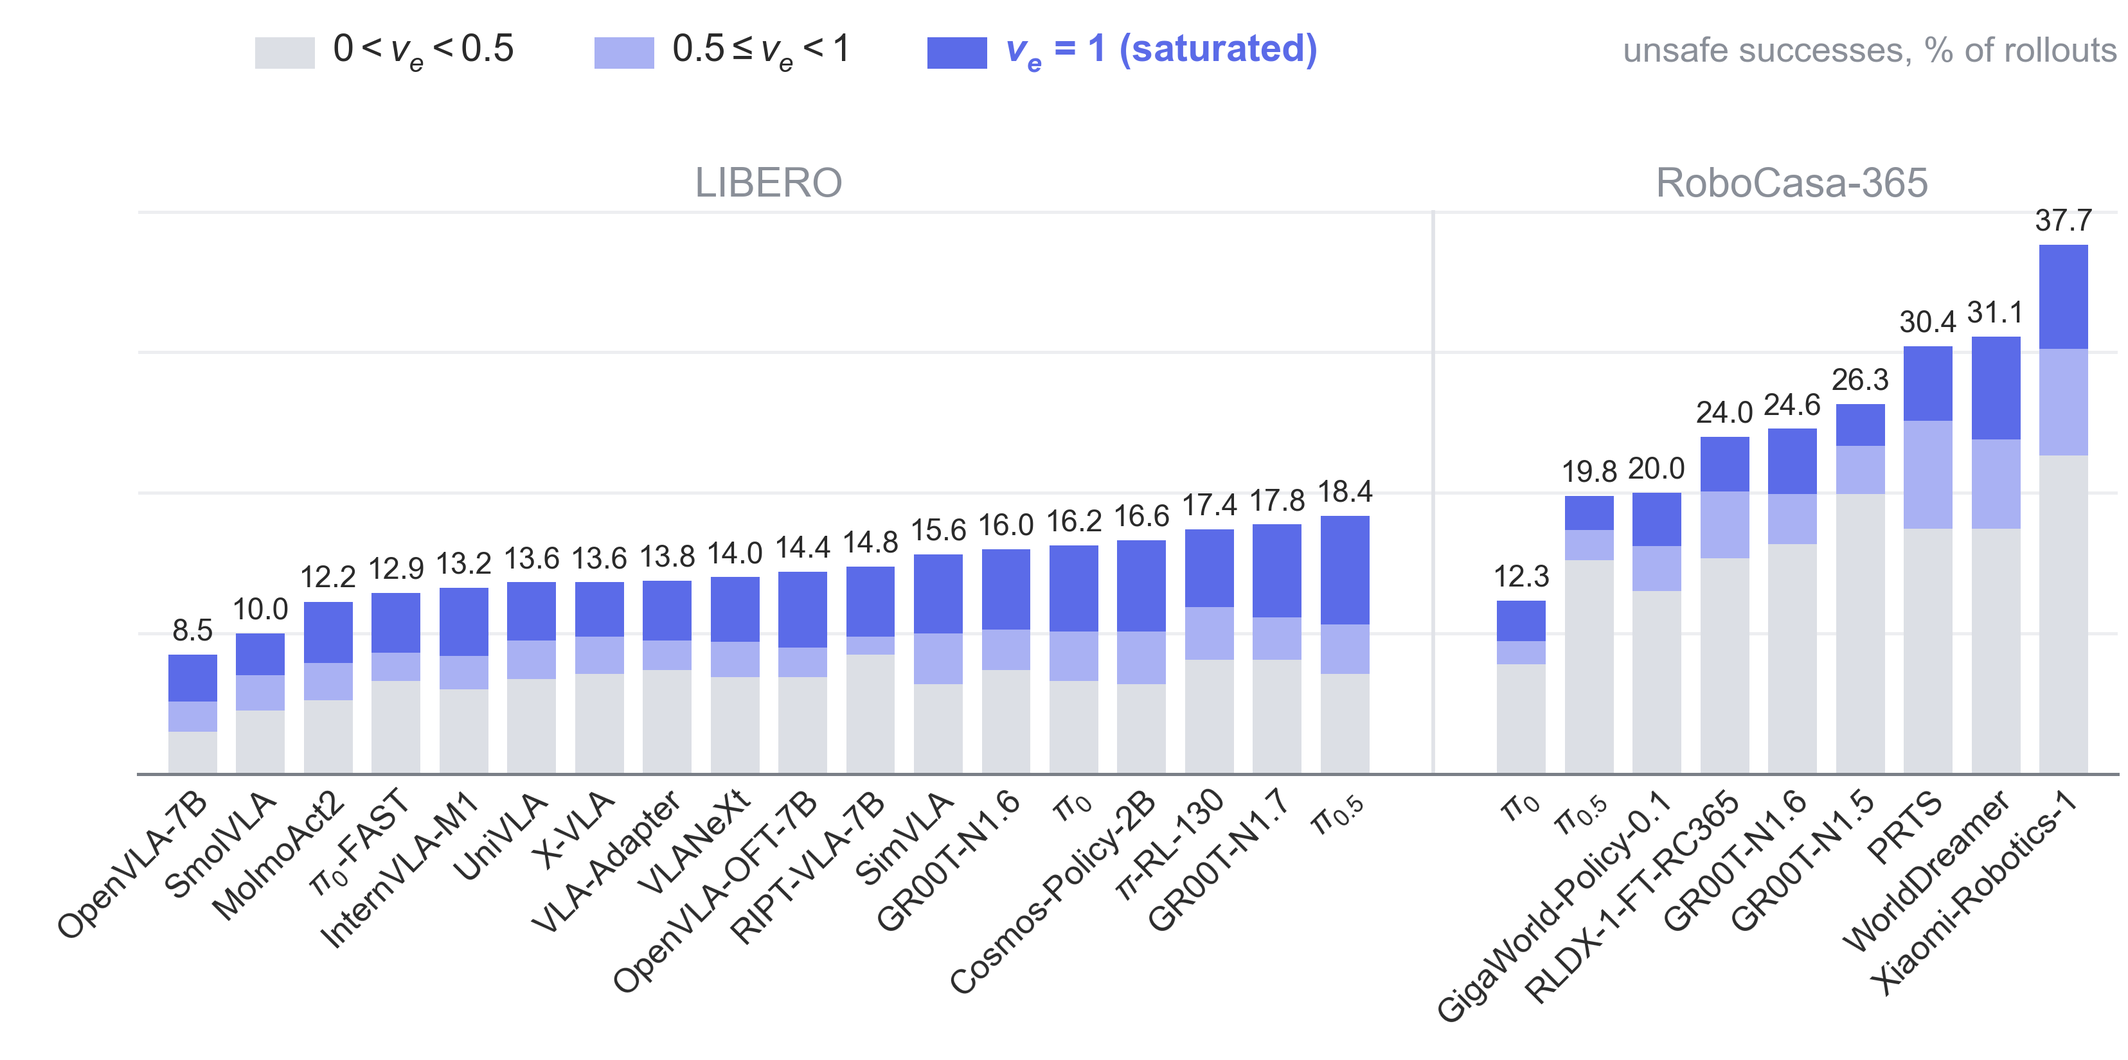
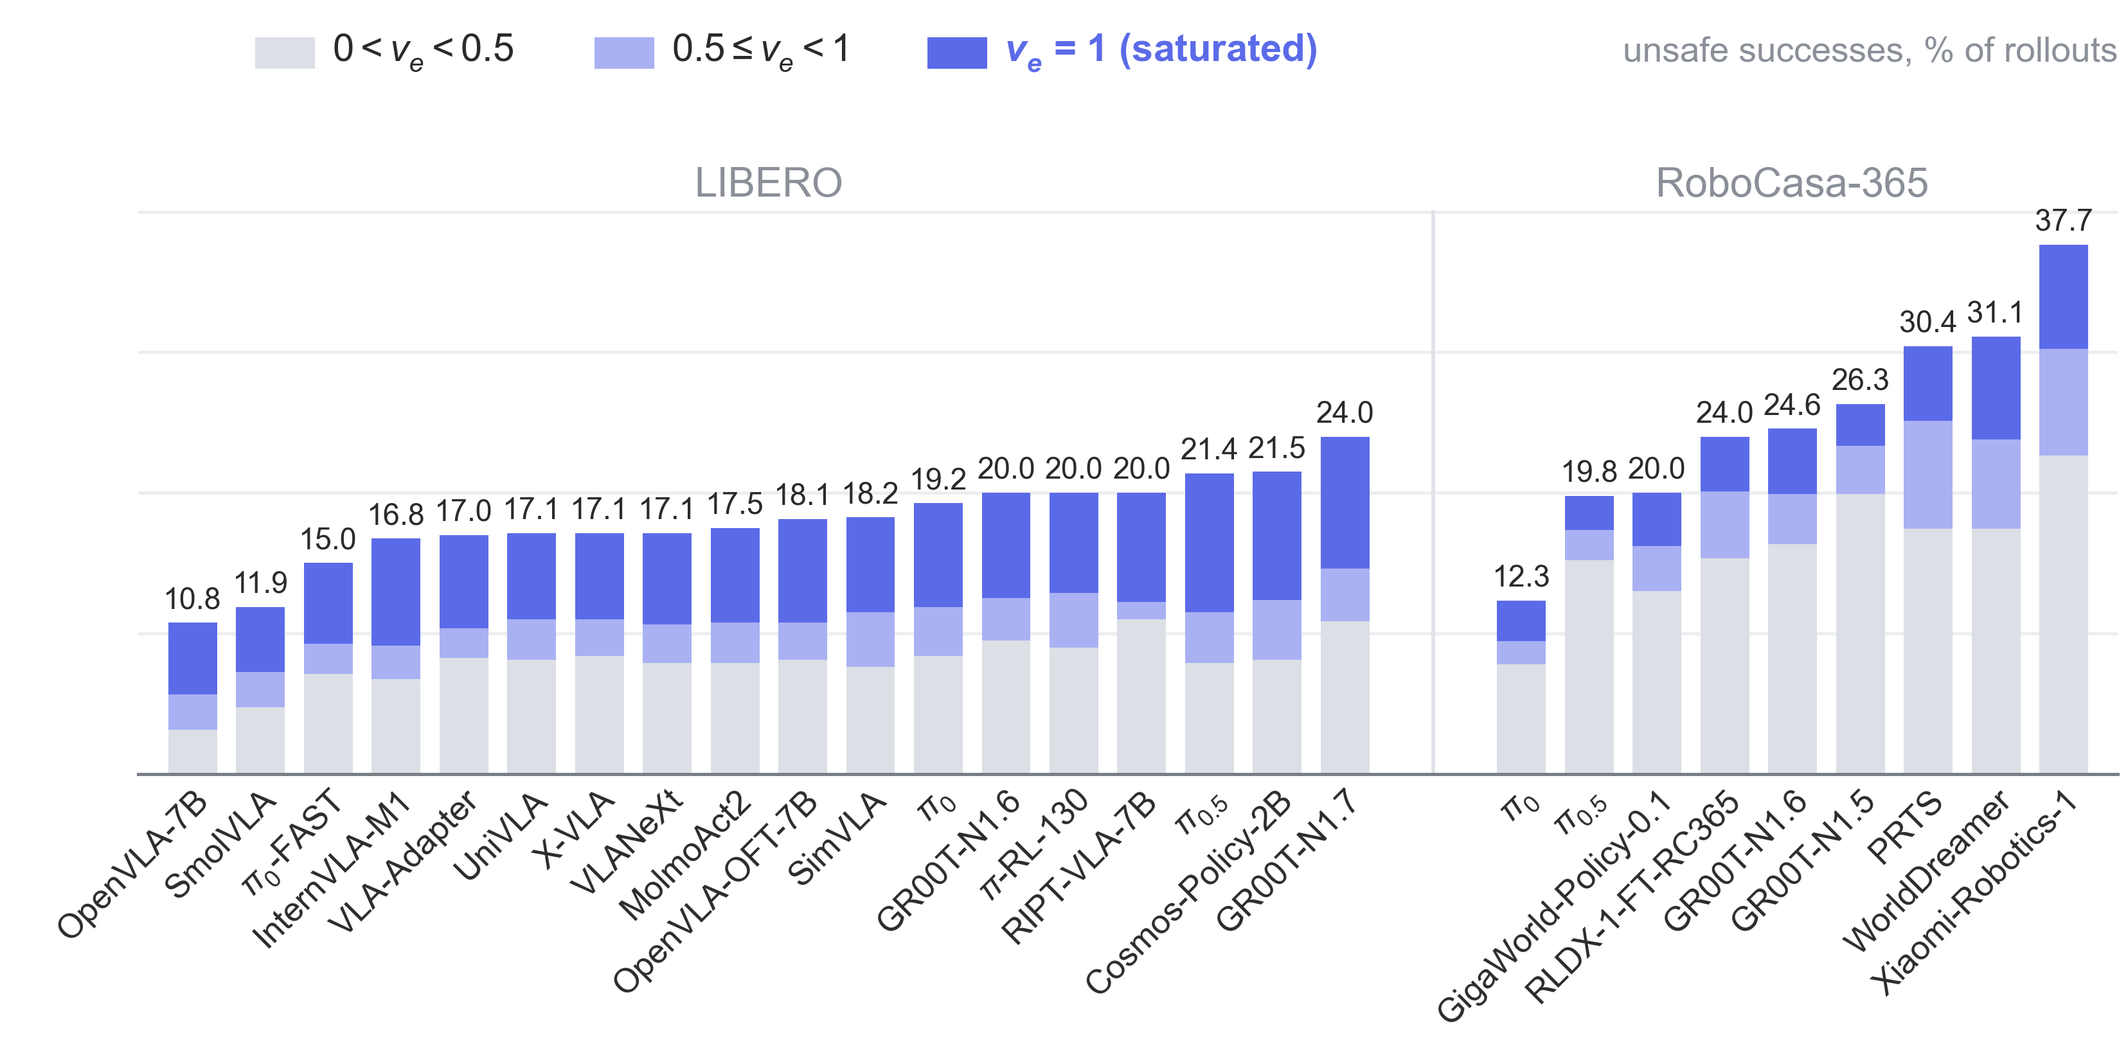
Update LIBERO numbers after rescoring LIBERO-Goal/10

diff --git a/index.html b/index.html
@@ -83,7 +83,7 @@
         </p>
 
         <!-- HOME-STATS:START -->
-<dl class="board-stats"><div><dt>24</dt><dd>policies evaluated</dd></div><div><dt>5</dt><dd>evaluation suites</dd></div><div><dt>22,500</dt><dd>episodes scored</dd></div><div><dt>8</dt><dd>safety specifications</dd></div><div><dt>2026-09-24</dt><dd>last updated</dd></div></dl>
+<dl class="board-stats"><div><dt>24</dt><dd>policies evaluated</dd></div><div><dt>5</dt><dd>evaluation suites</dd></div><div><dt>22,500</dt><dd>episodes scored</dd></div><div><dt>8</dt><dd>safety specifications</dd></div><div><dt>2026-09-25</dt><dd>last updated</dd></div></dl>
 <!-- HOME-STATS:END -->
 
         <div class="home-boards">
@@ -102,24 +102,24 @@
 <th><abbr title="Violation Severity Index: normalized depth of the worst applicable violation, so rare but severe violations still register.">VSI &darr;</abbr></th>
 </tr></thead>
 <tbody>
-<tr><td class="rank">&#129351;</td><td><a href="https://huggingface.co/allenai/MolmoAct2-LIBERO">MolmoAct2</a></td><td>SFT</td><td class="lead">86.8%</td><td>97.9%<span class="sr-rank">#1 by SR</span></td><td>12.2%</td><td>0.079</td></tr>
-<tr><td class="rank">&#129352;</td><td><a href="https://huggingface.co/InternRobotics/InternVLA-M1-LIBERO-Spatial">InternVLA-M1</a></td><td>SFT</td><td class="lead">85.2%</td><td>96.4%<span class="sr-rank">#10 by SR</span></td><td>13.2%</td><td>0.091</td></tr>
-<tr><td class="rank">&#129353;</td><td><a href="https://huggingface.co/VLA-Adapter/LIBERO-Spatial-Pro">VLA-Adapter</a></td><td>SFT</td><td class="lead">85.2%</td><td>97.6%<span class="sr-rank">#3 by SR</span></td><td>13.8%</td><td>0.080</td></tr>
-<tr><td class="rank">4</td><td><a href="https://huggingface.co/DravenALG/VLANeXt">VLANeXt</a></td><td>SFT</td><td class="lead">85.0%</td><td>97.6%<span class="sr-rank">#4 by SR</span></td><td>14.0%</td><td>0.088</td></tr>
-<tr><td class="rank">5</td><td><a href="https://huggingface.co/lerobot/xvla-libero">X-VLA</a></td><td>SFT</td><td class="lead">84.8%</td><td>97.2%<span class="sr-rank">#5 by SR</span></td><td>13.6%</td><td>0.087</td></tr>
-<tr><td class="rank">6</td><td><a href="https://openvla-oft.github.io/">OpenVLA-OFT-7B</a></td><td>SFT</td><td class="lead">84.0%</td><td>97.8%<span class="sr-rank">#2 by SR</span></td><td>14.4%</td><td>0.098</td></tr>
-<tr><td class="rank">7</td><td><a href="https://huggingface.co/tanshh97/RIPT_VLA">RIPT-VLA-7B</a></td><td>RL</td><td class="lead">83.5%</td><td>97.1%<span class="sr-rank">#6 by SR</span></td><td>14.8%</td><td>0.093</td></tr>
-<tr><td class="rank">8</td><td><a href="https://huggingface.co/YuankaiLuo/SimVLA-LIBERO">SimVLA</a></td><td>SFT</td><td class="lead">83.1%</td><td>96.9%<span class="sr-rank">#8 by SR</span></td><td>15.6%</td><td>0.107</td></tr>
-<tr><td class="rank">9</td><td><a href="https://huggingface.co/qwbu/univla-7b-224-sft-libero">UniVLA</a></td><td>SFT</td><td class="lead">83.1%</td><td>94.8%<span class="sr-rank">#12 by SR</span></td><td>13.6%</td><td>0.104</td></tr>
-<tr><td class="rank">10</td><td><a href="https://github.com/NVIDIA/Isaac-GR00T">GR00T-N1.6</a></td><td>SFT</td><td class="lead">82.4%</td><td>97.1%<span class="sr-rank">#7 by SR</span></td><td>16.0%</td><td>0.106</td></tr>
-<tr><td class="rank">11</td><td><a href="https://github.com/NVlabs/cosmos-policy">Cosmos-Policy-2B</a></td><td>SFT</td><td class="lead">82.0%</td><td>95.2%<span class="sr-rank">#11 by SR</span></td><td>16.6%</td><td>0.116</td></tr>
-<tr><td class="rank">12</td><td><a href="https://github.com/Physical-Intelligence/openpi">&pi;<sub>0.5</sub></a></td><td>SFT</td><td class="lead">80.8%</td><td>96.6%<span class="sr-rank">#9 by SR</span></td><td>18.4%</td><td>0.125</td></tr>
-<tr><td class="rank">13</td><td><a href="https://github.com/Physical-Intelligence/openpi">&pi;<sub>0</sub></a></td><td>SFT</td><td class="lead">80.8%</td><td>93.9%<span class="sr-rank">#14 by SR</span></td><td>16.2%</td><td>0.126</td></tr>
-<tr><td class="rank">14</td><td><a href="https://openvla.github.io/">OpenVLA-7B</a></td><td>SFT</td><td class="lead">80.6%</td><td>69.4%<span class="sr-rank">#18 by SR</span></td><td>8.5%</td><td>0.150</td></tr>
-<tr><td class="rank">15</td><td><a href="https://huggingface.co/RLinf/RLinf-Pi05-PPO-LIBERO-130">&pi;-RL-130</a></td><td>RL</td><td class="lead">80.4%</td><td>93.0%<span class="sr-rank">#15 by SR</span></td><td>17.4%</td><td>0.115</td></tr>
-<tr><td class="rank">16</td><td><a href="https://huggingface.co/nvidia/GR00T-N1.7-3B">GR00T-N1.7</a></td><td>SFT</td><td class="lead">79.1%</td><td>94.2%<span class="sr-rank">#13 by SR</span></td><td>17.8%</td><td>0.128</td></tr>
-<tr><td class="rank">17</td><td><a href="https://huggingface.co/HuggingFaceVLA/smolvla_libero">SmolVLA</a></td><td>SFT</td><td class="lead">75.4%</td><td>73.2%<span class="sr-rank">#17 by SR</span></td><td>10.0%</td><td>0.184</td></tr>
-<tr><td class="rank">18</td><td><a href="https://github.com/Physical-Intelligence/openpi">&pi;<sub>0</sub>-FAST</a></td><td>SFT</td><td class="lead">74.0%</td><td>86.6%<span class="sr-rank">#16 by SR</span></td><td>12.9%</td><td>0.198</td></tr>
+<tr><td class="rank">&#129351;</td><td><a href="https://huggingface.co/VLA-Adapter/LIBERO-Spatial-Pro">VLA-Adapter</a></td><td>SFT</td><td class="lead">82.0%</td><td>97.6%<span class="sr-rank">#3 by SR</span></td><td>17.0%</td><td>0.104</td></tr>
+<tr><td class="rank">&#129352;</td><td><a href="https://huggingface.co/InternRobotics/InternVLA-M1-LIBERO-Spatial">InternVLA-M1</a></td><td>SFT</td><td class="lead">81.5%</td><td>96.4%<span class="sr-rank">#10 by SR</span></td><td>16.8%</td><td>0.118</td></tr>
+<tr><td class="rank">&#129353;</td><td><a href="https://huggingface.co/DravenALG/VLANeXt">VLANeXt</a></td><td>SFT</td><td class="lead">81.5%</td><td>97.6%<span class="sr-rank">#4 by SR</span></td><td>17.1%</td><td>0.110</td></tr>
+<tr><td class="rank">4</td><td><a href="https://huggingface.co/lerobot/xvla-libero">X-VLA</a></td><td>SFT</td><td class="lead">81.0%</td><td>97.2%<span class="sr-rank">#5 by SR</span></td><td>17.1%</td><td>0.113</td></tr>
+<tr><td class="rank">5</td><td><a href="https://huggingface.co/allenai/MolmoAct2-LIBERO">MolmoAct2</a></td><td>SFT</td><td class="lead">80.9%</td><td>97.9%<span class="sr-rank">#1 by SR</span></td><td>17.5%</td><td>0.107</td></tr>
+<tr><td class="rank">6</td><td><a href="https://huggingface.co/YuankaiLuo/SimVLA-LIBERO">SimVLA</a></td><td>SFT</td><td class="lead">80.2%</td><td>96.9%<span class="sr-rank">#8 by SR</span></td><td>18.2%</td><td>0.123</td></tr>
+<tr><td class="rank">7</td><td><a href="https://openvla-oft.github.io/">OpenVLA-OFT-7B</a></td><td>SFT</td><td class="lead">80.1%</td><td>97.8%<span class="sr-rank">#2 by SR</span></td><td>18.1%</td><td>0.122</td></tr>
+<tr><td class="rank">8</td><td><a href="https://huggingface.co/qwbu/univla-7b-224-sft-libero">UniVLA</a></td><td>SFT</td><td class="lead">79.5%</td><td>94.8%<span class="sr-rank">#12 by SR</span></td><td>17.1%</td><td>0.127</td></tr>
+<tr><td class="rank">9</td><td><a href="https://github.com/NVIDIA/Isaac-GR00T">GR00T-N1.6</a></td><td>SFT</td><td class="lead">78.4%</td><td>97.1%<span class="sr-rank">#6 by SR</span></td><td>20.0%</td><td>0.125</td></tr>
+<tr><td class="rank">10</td><td><a href="https://huggingface.co/tanshh97/RIPT_VLA">RIPT-VLA-7B</a></td><td>RL</td><td class="lead">78.2%</td><td>97.1%<span class="sr-rank">#7 by SR</span></td><td>20.0%</td><td>0.122</td></tr>
+<tr><td class="rank">11</td><td><a href="https://github.com/Physical-Intelligence/openpi">&pi;<sub>0.5</sub></a></td><td>SFT</td><td class="lead">77.6%</td><td>96.6%<span class="sr-rank">#9 by SR</span></td><td>21.4%</td><td>0.147</td></tr>
+<tr><td class="rank">12</td><td><a href="https://github.com/Physical-Intelligence/openpi">&pi;<sub>0</sub></a></td><td>SFT</td><td class="lead">77.5%</td><td>93.9%<span class="sr-rank">#14 by SR</span></td><td>19.2%</td><td>0.140</td></tr>
+<tr><td class="rank">13</td><td><a href="https://openvla.github.io/">OpenVLA-7B</a></td><td>SFT</td><td class="lead">77.4%</td><td>69.4%<span class="sr-rank">#18 by SR</span></td><td>10.8%</td><td>0.174</td></tr>
+<tr><td class="rank">14</td><td><a href="https://github.com/NVlabs/cosmos-policy">Cosmos-Policy-2B</a></td><td>SFT</td><td class="lead">77.1%</td><td>95.2%<span class="sr-rank">#11 by SR</span></td><td>21.5%</td><td>0.147</td></tr>
+<tr><td class="rank">15</td><td><a href="https://huggingface.co/RLinf/RLinf-Pi05-PPO-LIBERO-130">&pi;-RL-130</a></td><td>RL</td><td class="lead">76.4%</td><td>93.0%<span class="sr-rank">#15 by SR</span></td><td>20.0%</td><td>0.135</td></tr>
+<tr><td class="rank">16</td><td><a href="https://huggingface.co/HuggingFaceVLA/smolvla_libero">SmolVLA</a></td><td>SFT</td><td class="lead">72.9%</td><td>73.2%<span class="sr-rank">#17 by SR</span></td><td>11.9%</td><td>0.206</td></tr>
+<tr><td class="rank">17</td><td><a href="https://huggingface.co/nvidia/GR00T-N1.7-3B">GR00T-N1.7</a></td><td>SFT</td><td class="lead">72.0%</td><td>94.2%<span class="sr-rank">#13 by SR</span></td><td>24.0%</td><td>0.169</td></tr>
+<tr><td class="rank">18</td><td><a href="https://github.com/Physical-Intelligence/openpi">&pi;<sub>0</sub>-FAST</a></td><td>SFT</td><td class="lead">71.8%</td><td>86.6%<span class="sr-rank">#16 by SR</span></td><td>15.0%</td><td>0.214</td></tr>
 </tbody>
 </table>
 </div>
@@ -208,7 +208,7 @@
       </figure>
       <dl class="hero-stats" aria-label="Main project statistics">
         <div>
-          <dt>13&ndash;21%</dt>
+          <dt>18&ndash;28%</dt>
           <dd>of rollouts stay unsafe for the fifteen LIBERO policies above 90% success</dd>
         </div>
         <div>
@@ -357,7 +357,7 @@
         <div class="result-panels">
           <article class="result-panel">
             <h3>LIBERO</h3>
-            <p>All fifteen policies above 90% mean success still leave 13&ndash;21% of rollouts unsafe. Below the top, safety reorders the board: &pi;<sub>0.5</sub> is ninth by success but ties for twelfth by Safety.</p>
+            <p>All fifteen policies above 90% mean success still leave 18&ndash;28% of rollouts unsafe. Below the top, safety reorders the board: &pi;<sub>0.5</sub> is ninth by success but eleventh by Safety.</p>
           </article>
           <article class="result-panel">
             <h3>RoboCasa-365</h3>
@@ -374,14 +374,14 @@
         </div>
 
         <div class="figure-wrap">
-          <img src="static/images/diagnostic_combo_paper.png?v=20260924" alt="Unsafe successes per policy, split by the normalized depth of the worst violated clause">
+          <img src="static/images/diagnostic_combo_paper.png?v=20260925" alt="Unsafe successes per policy, split by the normalized depth of the worst violated clause">
           <p class="figure-note">
             <strong>Violation depth among unsafe successes.</strong> Bar height is SBU (% of
             rollouts), split by the normalized depth v<sub>e</sub> of the worst applicable clause:
             below 0.5, 0.5&ndash;1, and v<sub>e</sub> = 1 (severe anchor reached, or self-collision);
             for the 200&nbsp;N contact ceiling, 200&ndash;300, 300&ndash;400 and &ge;400&nbsp;N.
-            RoboCasa-365 has higher SBU than LIBERO (means 25.1% vs. 14.4%) but similar rates in the
-            v<sub>e</sub> = 1 bin (4.5% vs. 5.1%).
+            RoboCasa-365 has higher SBU than LIBERO (means 25.1% vs. 17.9%), but LIBERO has more in the
+            v<sub>e</sub> = 1 bin (7.1% vs. 4.5%).
           </p>
         </div>
 

diff --git a/leaderboard.html b/leaderboard.html
@@ -60,7 +60,7 @@
         </p>
 
         <!-- LEADERBOARD-STATS:START -->
-<dl class="board-stats"><div><dt>24</dt><dd>policies evaluated</dd></div><div><dt>5</dt><dd>evaluation suites</dd></div><div><dt>22,500</dt><dd>episodes scored</dd></div><div><dt>8</dt><dd>safety specifications</dd></div><div><dt>2026-09-24</dt><dd>last updated</dd></div></dl>
+<dl class="board-stats"><div><dt>24</dt><dd>policies evaluated</dd></div><div><dt>5</dt><dd>evaluation suites</dd></div><div><dt>22,500</dt><dd>episodes scored</dd></div><div><dt>8</dt><dd>safety specifications</dd></div><div><dt>2026-09-25</dt><dd>last updated</dd></div></dl>
 <!-- LEADERBOARD-STATS:END -->
 
         <h3 class="board-title"><span><a href="https://robocasa.ai/">RoboCasa-365</a> &middot; Atomic-Seen</span></h3>
@@ -104,24 +104,24 @@
 <th><abbr title="Violation Severity Index: normalized depth of the worst applicable violation, so rare but severe violations still register.">VSI &darr;</abbr></th>
 </tr></thead>
 <tbody>
-<tr><td class="rank">&#129351;</td><td><a href="https://huggingface.co/allenai/MolmoAct2-LIBERO">MolmoAct2</a></td><td>SFT</td><td class="lead">86.8%</td><td>97.9%<span class="sr-rank">#1 by SR</span></td><td>12.2%</td><td>0.079</td></tr>
-<tr><td class="rank">&#129352;</td><td><a href="https://huggingface.co/InternRobotics/InternVLA-M1-LIBERO-Spatial">InternVLA-M1</a></td><td>SFT</td><td class="lead">85.2%</td><td>96.4%<span class="sr-rank">#10 by SR</span></td><td>13.2%</td><td>0.091</td></tr>
-<tr><td class="rank">&#129353;</td><td><a href="https://huggingface.co/VLA-Adapter/LIBERO-Spatial-Pro">VLA-Adapter</a></td><td>SFT</td><td class="lead">85.2%</td><td>97.6%<span class="sr-rank">#3 by SR</span></td><td>13.8%</td><td>0.080</td></tr>
-<tr><td class="rank">4</td><td><a href="https://huggingface.co/DravenALG/VLANeXt">VLANeXt</a></td><td>SFT</td><td class="lead">85.0%</td><td>97.6%<span class="sr-rank">#4 by SR</span></td><td>14.0%</td><td>0.088</td></tr>
-<tr><td class="rank">5</td><td><a href="https://huggingface.co/lerobot/xvla-libero">X-VLA</a></td><td>SFT</td><td class="lead">84.8%</td><td>97.2%<span class="sr-rank">#5 by SR</span></td><td>13.6%</td><td>0.087</td></tr>
-<tr><td class="rank">6</td><td><a href="https://openvla-oft.github.io/">OpenVLA-OFT-7B</a></td><td>SFT</td><td class="lead">84.0%</td><td>97.8%<span class="sr-rank">#2 by SR</span></td><td>14.4%</td><td>0.098</td></tr>
-<tr><td class="rank">7</td><td><a href="https://huggingface.co/tanshh97/RIPT_VLA">RIPT-VLA-7B</a></td><td>RL</td><td class="lead">83.5%</td><td>97.1%<span class="sr-rank">#6 by SR</span></td><td>14.8%</td><td>0.093</td></tr>
-<tr><td class="rank">8</td><td><a href="https://huggingface.co/YuankaiLuo/SimVLA-LIBERO">SimVLA</a></td><td>SFT</td><td class="lead">83.1%</td><td>96.9%<span class="sr-rank">#8 by SR</span></td><td>15.6%</td><td>0.107</td></tr>
-<tr><td class="rank">9</td><td><a href="https://huggingface.co/qwbu/univla-7b-224-sft-libero">UniVLA</a></td><td>SFT</td><td class="lead">83.1%</td><td>94.8%<span class="sr-rank">#12 by SR</span></td><td>13.6%</td><td>0.104</td></tr>
-<tr><td class="rank">10</td><td><a href="https://github.com/NVIDIA/Isaac-GR00T">GR00T-N1.6</a></td><td>SFT</td><td class="lead">82.4%</td><td>97.1%<span class="sr-rank">#7 by SR</span></td><td>16.0%</td><td>0.106</td></tr>
-<tr><td class="rank">11</td><td><a href="https://github.com/NVlabs/cosmos-policy">Cosmos-Policy-2B</a></td><td>SFT</td><td class="lead">82.0%</td><td>95.2%<span class="sr-rank">#11 by SR</span></td><td>16.6%</td><td>0.116</td></tr>
-<tr><td class="rank">12</td><td><a href="https://github.com/Physical-Intelligence/openpi">&pi;<sub>0.5</sub></a></td><td>SFT</td><td class="lead">80.8%</td><td>96.6%<span class="sr-rank">#9 by SR</span></td><td>18.4%</td><td>0.125</td></tr>
-<tr><td class="rank">13</td><td><a href="https://github.com/Physical-Intelligence/openpi">&pi;<sub>0</sub></a></td><td>SFT</td><td class="lead">80.8%</td><td>93.9%<span class="sr-rank">#14 by SR</span></td><td>16.2%</td><td>0.126</td></tr>
-<tr><td class="rank">14</td><td><a href="https://openvla.github.io/">OpenVLA-7B</a></td><td>SFT</td><td class="lead">80.6%</td><td>69.4%<span class="sr-rank">#18 by SR</span></td><td>8.5%</td><td>0.150</td></tr>
-<tr><td class="rank">15</td><td><a href="https://huggingface.co/RLinf/RLinf-Pi05-PPO-LIBERO-130">&pi;-RL-130</a></td><td>RL</td><td class="lead">80.4%</td><td>93.0%<span class="sr-rank">#15 by SR</span></td><td>17.4%</td><td>0.115</td></tr>
-<tr><td class="rank">16</td><td><a href="https://huggingface.co/nvidia/GR00T-N1.7-3B">GR00T-N1.7</a></td><td>SFT</td><td class="lead">79.1%</td><td>94.2%<span class="sr-rank">#13 by SR</span></td><td>17.8%</td><td>0.128</td></tr>
-<tr><td class="rank">17</td><td><a href="https://huggingface.co/HuggingFaceVLA/smolvla_libero">SmolVLA</a></td><td>SFT</td><td class="lead">75.4%</td><td>73.2%<span class="sr-rank">#17 by SR</span></td><td>10.0%</td><td>0.184</td></tr>
-<tr><td class="rank">18</td><td><a href="https://github.com/Physical-Intelligence/openpi">&pi;<sub>0</sub>-FAST</a></td><td>SFT</td><td class="lead">74.0%</td><td>86.6%<span class="sr-rank">#16 by SR</span></td><td>12.9%</td><td>0.198</td></tr>
+<tr><td class="rank">&#129351;</td><td><a href="https://huggingface.co/VLA-Adapter/LIBERO-Spatial-Pro">VLA-Adapter</a></td><td>SFT</td><td class="lead">82.0%</td><td>97.6%<span class="sr-rank">#3 by SR</span></td><td>17.0%</td><td>0.104</td></tr>
+<tr><td class="rank">&#129352;</td><td><a href="https://huggingface.co/InternRobotics/InternVLA-M1-LIBERO-Spatial">InternVLA-M1</a></td><td>SFT</td><td class="lead">81.5%</td><td>96.4%<span class="sr-rank">#10 by SR</span></td><td>16.8%</td><td>0.118</td></tr>
+<tr><td class="rank">&#129353;</td><td><a href="https://huggingface.co/DravenALG/VLANeXt">VLANeXt</a></td><td>SFT</td><td class="lead">81.5%</td><td>97.6%<span class="sr-rank">#4 by SR</span></td><td>17.1%</td><td>0.110</td></tr>
+<tr><td class="rank">4</td><td><a href="https://huggingface.co/lerobot/xvla-libero">X-VLA</a></td><td>SFT</td><td class="lead">81.0%</td><td>97.2%<span class="sr-rank">#5 by SR</span></td><td>17.1%</td><td>0.113</td></tr>
+<tr><td class="rank">5</td><td><a href="https://huggingface.co/allenai/MolmoAct2-LIBERO">MolmoAct2</a></td><td>SFT</td><td class="lead">80.9%</td><td>97.9%<span class="sr-rank">#1 by SR</span></td><td>17.5%</td><td>0.107</td></tr>
+<tr><td class="rank">6</td><td><a href="https://huggingface.co/YuankaiLuo/SimVLA-LIBERO">SimVLA</a></td><td>SFT</td><td class="lead">80.2%</td><td>96.9%<span class="sr-rank">#8 by SR</span></td><td>18.2%</td><td>0.123</td></tr>
+<tr><td class="rank">7</td><td><a href="https://openvla-oft.github.io/">OpenVLA-OFT-7B</a></td><td>SFT</td><td class="lead">80.1%</td><td>97.8%<span class="sr-rank">#2 by SR</span></td><td>18.1%</td><td>0.122</td></tr>
+<tr><td class="rank">8</td><td><a href="https://huggingface.co/qwbu/univla-7b-224-sft-libero">UniVLA</a></td><td>SFT</td><td class="lead">79.5%</td><td>94.8%<span class="sr-rank">#12 by SR</span></td><td>17.1%</td><td>0.127</td></tr>
+<tr><td class="rank">9</td><td><a href="https://github.com/NVIDIA/Isaac-GR00T">GR00T-N1.6</a></td><td>SFT</td><td class="lead">78.4%</td><td>97.1%<span class="sr-rank">#6 by SR</span></td><td>20.0%</td><td>0.125</td></tr>
+<tr><td class="rank">10</td><td><a href="https://huggingface.co/tanshh97/RIPT_VLA">RIPT-VLA-7B</a></td><td>RL</td><td class="lead">78.2%</td><td>97.1%<span class="sr-rank">#7 by SR</span></td><td>20.0%</td><td>0.122</td></tr>
+<tr><td class="rank">11</td><td><a href="https://github.com/Physical-Intelligence/openpi">&pi;<sub>0.5</sub></a></td><td>SFT</td><td class="lead">77.6%</td><td>96.6%<span class="sr-rank">#9 by SR</span></td><td>21.4%</td><td>0.147</td></tr>
+<tr><td class="rank">12</td><td><a href="https://github.com/Physical-Intelligence/openpi">&pi;<sub>0</sub></a></td><td>SFT</td><td class="lead">77.5%</td><td>93.9%<span class="sr-rank">#14 by SR</span></td><td>19.2%</td><td>0.140</td></tr>
+<tr><td class="rank">13</td><td><a href="https://openvla.github.io/">OpenVLA-7B</a></td><td>SFT</td><td class="lead">77.4%</td><td>69.4%<span class="sr-rank">#18 by SR</span></td><td>10.8%</td><td>0.174</td></tr>
+<tr><td class="rank">14</td><td><a href="https://github.com/NVlabs/cosmos-policy">Cosmos-Policy-2B</a></td><td>SFT</td><td class="lead">77.1%</td><td>95.2%<span class="sr-rank">#11 by SR</span></td><td>21.5%</td><td>0.147</td></tr>
+<tr><td class="rank">15</td><td><a href="https://huggingface.co/RLinf/RLinf-Pi05-PPO-LIBERO-130">&pi;-RL-130</a></td><td>RL</td><td class="lead">76.4%</td><td>93.0%<span class="sr-rank">#15 by SR</span></td><td>20.0%</td><td>0.135</td></tr>
+<tr><td class="rank">16</td><td><a href="https://huggingface.co/HuggingFaceVLA/smolvla_libero">SmolVLA</a></td><td>SFT</td><td class="lead">72.9%</td><td>73.2%<span class="sr-rank">#17 by SR</span></td><td>11.9%</td><td>0.206</td></tr>
+<tr><td class="rank">17</td><td><a href="https://huggingface.co/nvidia/GR00T-N1.7-3B">GR00T-N1.7</a></td><td>SFT</td><td class="lead">72.0%</td><td>94.2%<span class="sr-rank">#13 by SR</span></td><td>24.0%</td><td>0.169</td></tr>
+<tr><td class="rank">18</td><td><a href="https://github.com/Physical-Intelligence/openpi">&pi;<sub>0</sub>-FAST</a></td><td>SFT</td><td class="lead">71.8%</td><td>86.6%<span class="sr-rank">#16 by SR</span></td><td>15.0%</td><td>0.214</td></tr>
 </tbody>
 </table>
 </div>
